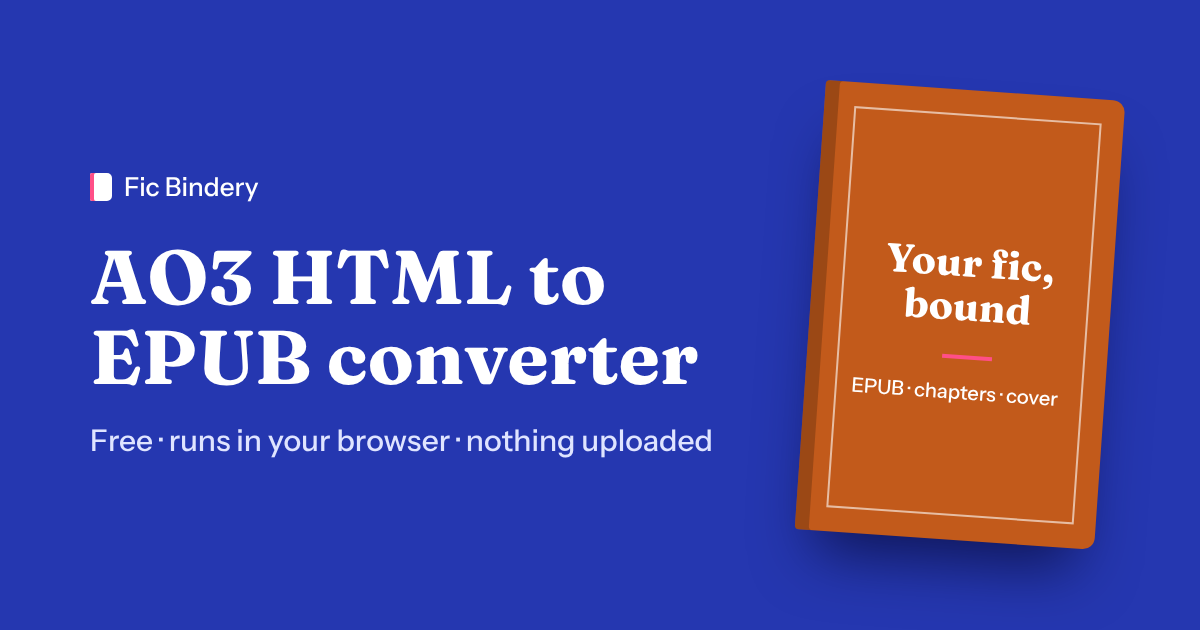
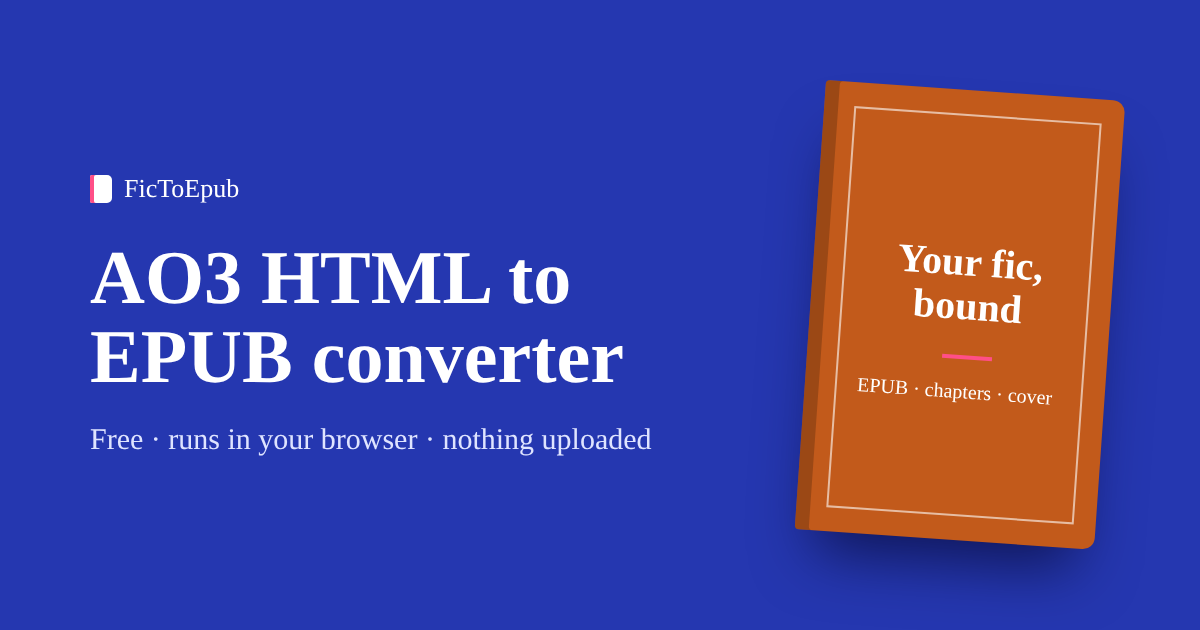
Rename to FicToEpub, canonical fictoepub.pages.dev
Claude-Session: https://claude.ai/code/session_01GoobaZfrhnBTFcTvy2Gazy

diff --git a/public/index.html b/public/index.html
@@ -3,12 +3,12 @@
 <head>
 <meta charset="utf-8">
 <meta name="viewport" content="width=device-width, initial-scale=1">
-<title>AO3 HTML to EPUB Converter – Free, No Upload | Fic Bindery</title>
+<title>AO3 HTML to EPUB Converter – Free, No Upload | FicToEpub</title>
 <meta name="description" content="Turn the HTML file you downloaded from AO3 into a clean EPUB with chapters, table of contents and a cover. Free, runs in your browser, nothing is uploaded. Works with Kindle, Kobo and Apple Books.">
-<link rel="canonical" href="https://fic-bindery.pages.dev/">
+<link rel="canonical" href="https://fictoepub.pages.dev/">
 <link rel="icon" href="favicon.svg" type="image/svg+xml">
-<meta property="og:url" content="https://fic-bindery.pages.dev/">
-<meta property="og:image" content="https://fic-bindery.pages.dev/og.png">
+<meta property="og:url" content="https://fictoepub.pages.dev/">
+<meta property="og:image" content="https://fictoepub.pages.dev/og.png">
 <meta property="og:image:width" content="1200"><meta property="og:image:height" content="630">
 <meta name="twitter:card" content="summary_large_image">
 <meta property="og:title" content="AO3 HTML to EPUB Converter – free, private, in your browser">
@@ -16,7 +16,7 @@
 <meta property="og:type" content="website">
 <link rel="preload" href="fonts/fraunces-latin-700-normal.woff2" as="font" type="font/woff2" crossorigin>
 <script type="application/ld+json">
-[{"@context":"https://schema.org","@type":"WebApplication","name":"Fic Bindery – AO3 HTML to EPUB Converter","applicationCategory":"UtilitiesApplication","operatingSystem":"Any (web browser)","offers":{"@type":"Offer","price":"0","priceCurrency":"USD"}},
+[{"@context":"https://schema.org","@type":"WebApplication","name":"FicToEpub – AO3 HTML to EPUB Converter","applicationCategory":"UtilitiesApplication","operatingSystem":"Any (web browser)","offers":{"@type":"Offer","price":"0","priceCurrency":"USD"}},
 {"@context":"https://schema.org","@type":"FAQPage","mainEntity":[
 {"@type":"Question","name":"How do I convert an AO3 HTML download to EPUB?","acceptedAnswer":{"@type":"Answer","text":"On the work page choose Entire Work, then Download and HTML. Drop that file on this page, check the title and author, and press Make EPUB. The EPUB is built in your browser."}},
 {"@type":"Question","name":"Is my file uploaded anywhere?","acceptedAnswer":{"@type":"Answer","text":"No. The converter runs entirely in your browser. The HTML file and the finished EPUB never leave your device."}},
@@ -101,7 +101,7 @@ footer{background:var(--cloth2);color:#cdd3f5;font-size:14px;padding:28px 0}foot
 </head>
 <body>
 <header class="top"><div class="wrap">
-  <div class="brand"><i></i>Fic Bindery</div>
+  <div class="brand"><i></i>FicToEpub</div>
   <h1>AO3 HTML to EPUB converter</h1>
   <p>Drop the HTML file you downloaded from Archive of Our Own and get a proper EPUB back — chapters, table of contents, work info and a cover. It all happens in your browser; nothing is uploaded.</p>
 </div></header>
@@ -166,7 +166,7 @@ footer{background:var(--cloth2);color:#cdd3f5;font-size:14px;padding:28px 0}foot
 <!-- AD SLOT: after FAQ -->
 </main>
 
-<footer><div class="wrap">Fic Bindery is an independent tool and is not affiliated with Archive of Our Own or the Organization for Transformative Works. Fanworks belong to their creators — convert for personal reading only.</div></footer>
+<footer><div class="wrap">FicToEpub is an independent tool and is not affiliated with Archive of Our Own or the Organization for Transformative Works. Fanworks belong to their creators — convert for personal reading only.</div></footer>
 
 <script id="sample" type="text/plain">
 <html><head><title>The Lantern Under the Pier - harbourlight - Original Work</title></head><body>

diff --git a/src/index.html b/src/index.html
@@ -3,7 +3,7 @@
 <head>
 <meta charset="utf-8">
 <meta name="viewport" content="width=device-width, initial-scale=1">
-<title>AO3 HTML to EPUB Converter – Free, No Upload | Fic Bindery</title>
+<title>AO3 HTML to EPUB Converter – Free, No Upload | FicToEpub</title>
 <meta name="description" content="Turn the HTML file you downloaded from AO3 into a clean EPUB with chapters, table of contents and a cover. Free, runs in your browser, nothing is uploaded. Works with Kindle, Kobo and Apple Books.">
 <!--SEO-HEAD-->
 <meta property="og:title" content="AO3 HTML to EPUB Converter – free, private, in your browser">
@@ -12,7 +12,7 @@
 <link rel="preconnect" href="https://fonts.googleapis.com"><link rel="preconnect" href="https://fonts.gstatic.com" crossorigin>
 <link href="https://fonts.googleapis.com/css2?family=Fraunces:opsz,wght@9..144,600;9..144,700&family=Instrument+Sans:wght@400;500;600&display=swap" rel="stylesheet">
 <script type="application/ld+json">
-[{"@context":"https://schema.org","@type":"WebApplication","name":"Fic Bindery – AO3 HTML to EPUB Converter","applicationCategory":"UtilitiesApplication","operatingSystem":"Any (web browser)","offers":{"@type":"Offer","price":"0","priceCurrency":"USD"}},
+[{"@context":"https://schema.org","@type":"WebApplication","name":"FicToEpub – AO3 HTML to EPUB Converter","applicationCategory":"UtilitiesApplication","operatingSystem":"Any (web browser)","offers":{"@type":"Offer","price":"0","priceCurrency":"USD"}},
 {"@context":"https://schema.org","@type":"FAQPage","mainEntity":[
 {"@type":"Question","name":"How do I convert an AO3 HTML download to EPUB?","acceptedAnswer":{"@type":"Answer","text":"On the work page choose Entire Work, then Download and HTML. Drop that file on this page, check the title and author, and press Make EPUB. The EPUB is built in your browser."}},
 {"@type":"Question","name":"Is my file uploaded anywhere?","acceptedAnswer":{"@type":"Answer","text":"No. The converter runs entirely in your browser. The HTML file and the finished EPUB never leave your device."}},
@@ -92,7 +92,7 @@ footer{background:var(--cloth2);color:#cdd3f5;font-size:14px;padding:28px 0}foot
 </head>
 <body>
 <header class="top"><div class="wrap">
-  <div class="brand"><i></i>Fic Bindery</div>
+  <div class="brand"><i></i>FicToEpub</div>
   <h1>AO3 HTML to EPUB converter</h1>
   <p>Drop the HTML file you downloaded from Archive of Our Own and get a proper EPUB back — chapters, table of contents, work info and a cover. It all happens in your browser; nothing is uploaded.</p>
 </div></header>
@@ -157,7 +157,7 @@ footer{background:var(--cloth2);color:#cdd3f5;font-size:14px;padding:28px 0}foot
 <!-- AD SLOT: after FAQ -->
 </main>
 
-<footer><div class="wrap">Fic Bindery is an independent tool and is not affiliated with Archive of Our Own or the Organization for Transformative Works. Fanworks belong to their creators — convert for personal reading only.</div></footer>
+<footer><div class="wrap">FicToEpub is an independent tool and is not affiliated with Archive of Our Own or the Organization for Transformative Works. Fanworks belong to their creators — convert for personal reading only.</div></footer>
 
 <script id="sample" type="text/plain">
 <html><head><title>The Lantern Under the Pier - harbourlight - Original Work</title></head><body>

diff --git a/public/404.html b/public/404.html
@@ -1,4 +1,4 @@
 <!DOCTYPE html>
-<html lang="en"><head><meta charset="utf-8"><meta name="viewport" content="width=device-width, initial-scale=1"><meta name="robots" content="noindex"><title>Page not found | Fic Bindery</title><link rel="icon" href="/favicon.svg" type="image/svg+xml">
+<html lang="en"><head><meta charset="utf-8"><meta name="viewport" content="width=device-width, initial-scale=1"><meta name="robots" content="noindex"><title>Page not found | FicToEpub</title><link rel="icon" href="/favicon.svg" type="image/svg+xml">
 <style>body{margin:0;min-height:100vh;display:grid;place-items:center;background:#2537b0;color:#fff;font:17px/1.5 system-ui,sans-serif;text-align:center;padding:24px}h1{font:700 40px/1.1 Georgia,serif;margin:0 0 12px}a{color:#fff;font-weight:600}</style></head>
 <body><div><h1>This page isn't here</h1><p><a href="/">Go to the AO3 HTML to EPUB converter</a></p></div></body></html>

diff --git a/README.md b/README.md
@@ -1,4 +1,4 @@
-# Fic Bindery — AO3 HTML to EPUB converter
+# FicToEpub — AO3 HTML to EPUB converter
 
 Free, private, in-browser converter that turns the HTML file you download from Archive of Our Own (AO3) into a clean EPUB with chapters, a table of contents, a work-info page and a generated cover. Nothing is uploaded: the EPUB is assembled in your browser.
 
